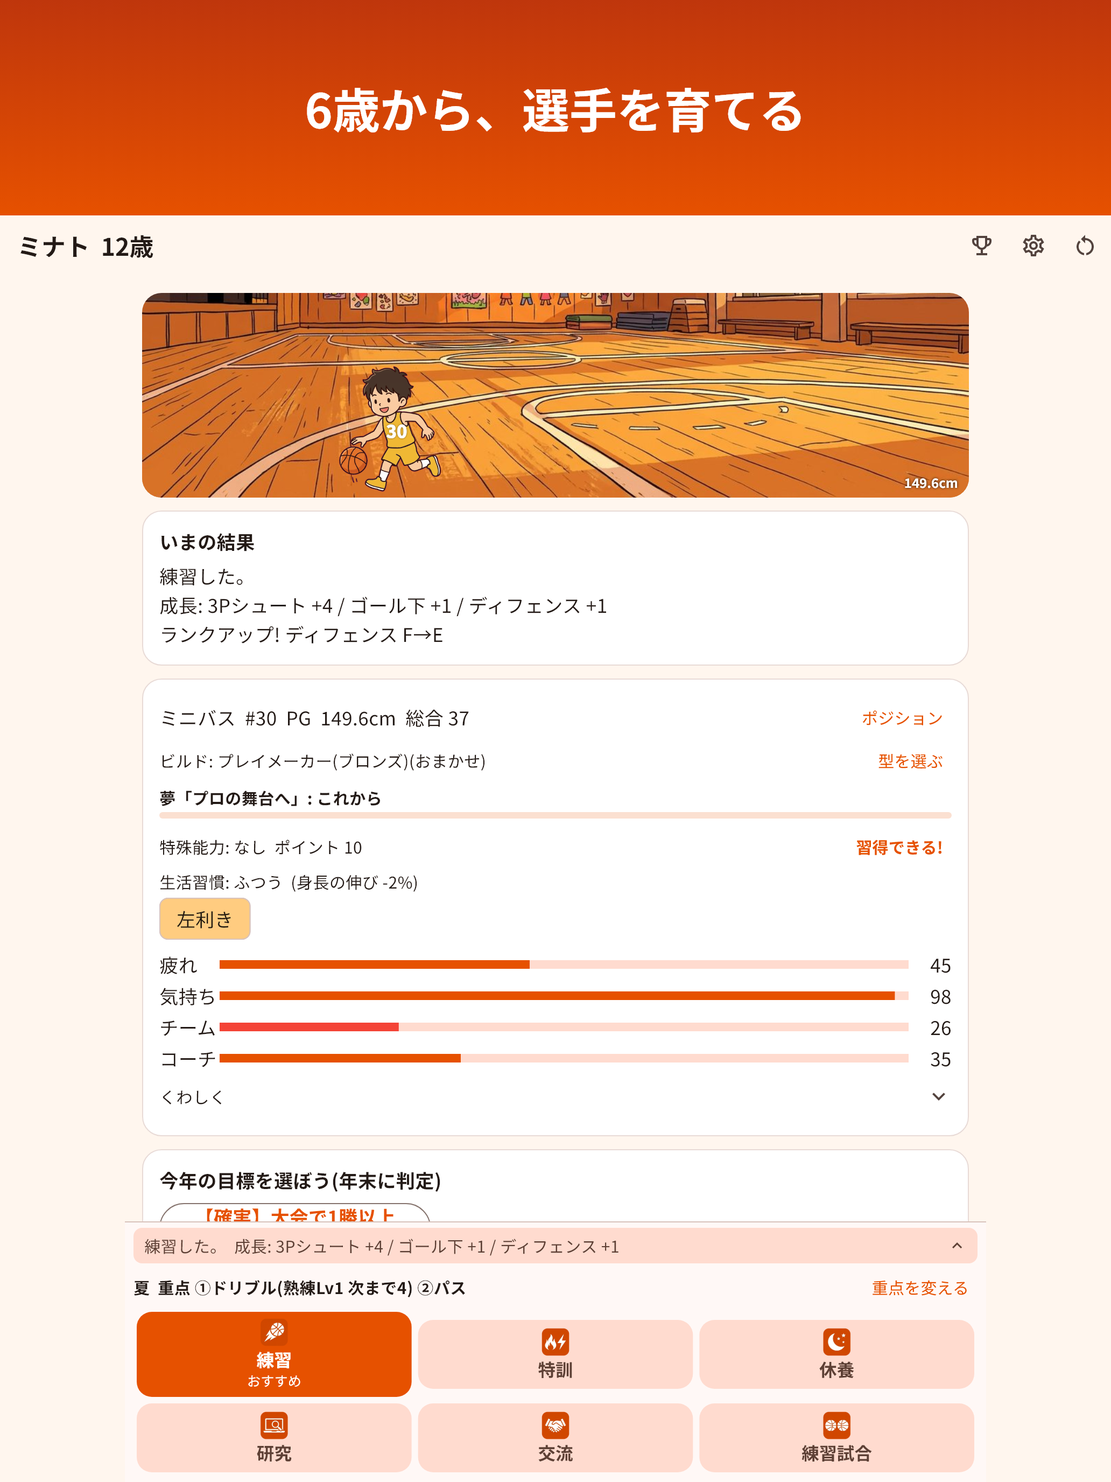
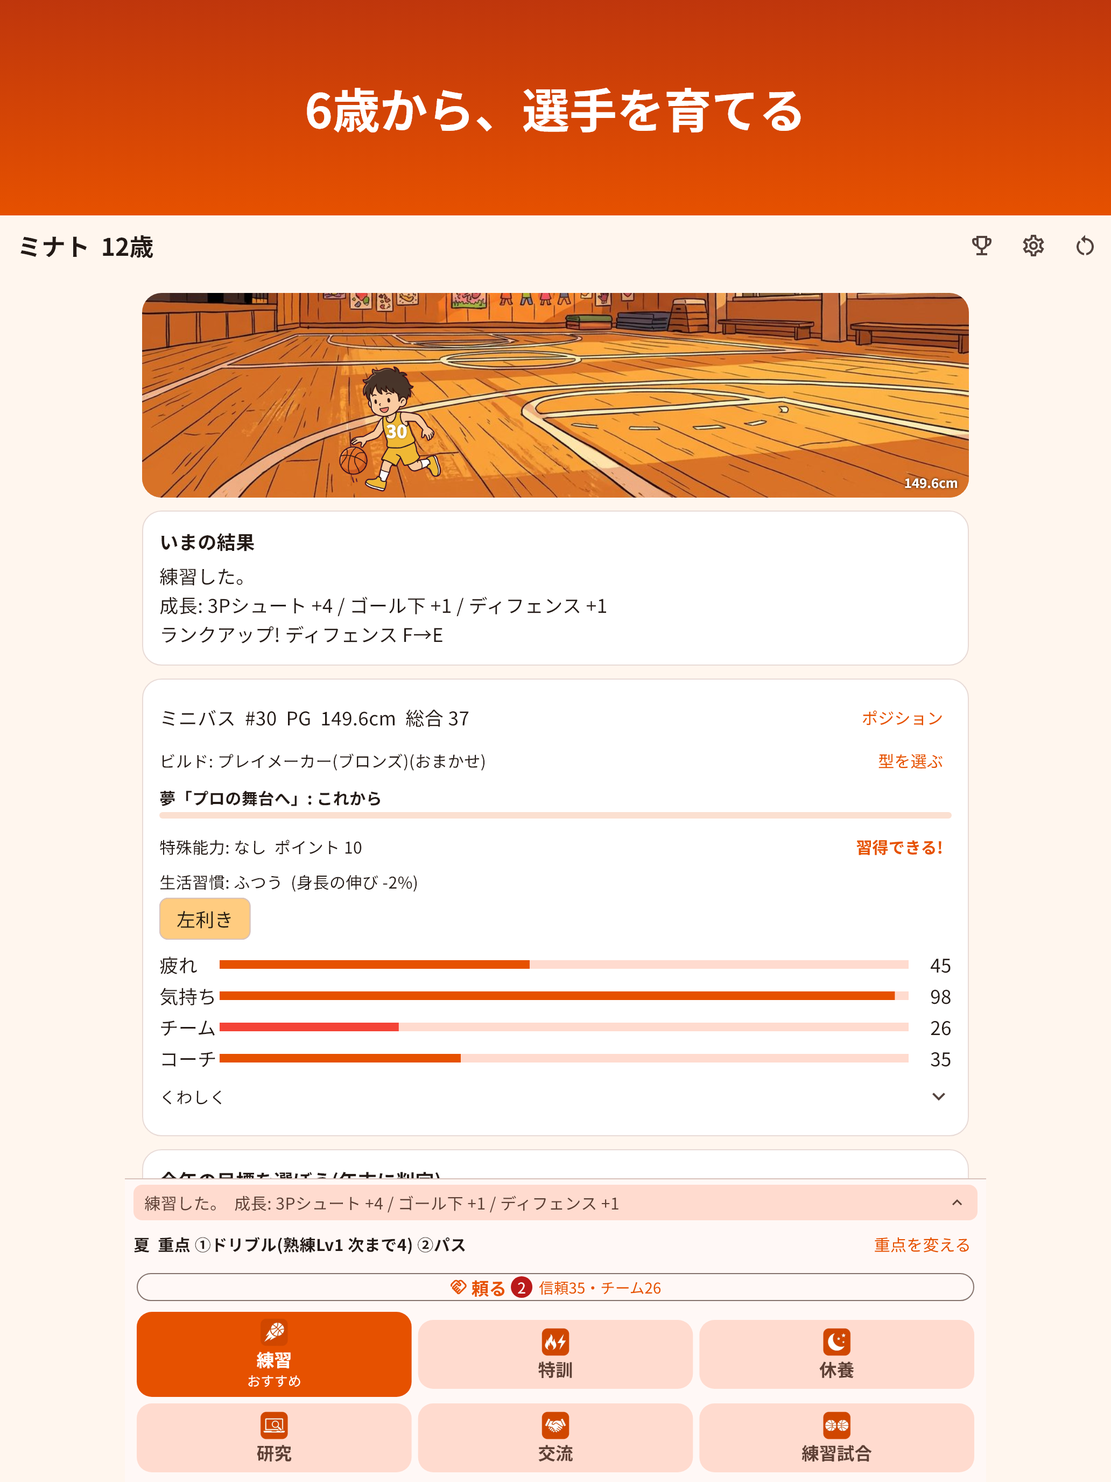
basketball-career: リリース前の点検（使える数の印・遊び方・掲載文と10枚目の画像） (#808)
- 乱数で500人遊ばせる検査に、頼る・お金を混ぜた
- 下のバーの「頼る」「お金」に、今すぐ使える数を出す
- 遊び方に熟練度・頼る・お金を足した
- iPad で身長の表示が2行に割れていたのを直した
- 掲載文から、画面に無い「難しさは3段階」を消し、新しい機能を足した
- 掲載画像に10枚目（お金の使い道）を足した（iPhone・iPad）

Changed region(s): [[0.124, 0.7812, 0.8992, 0.875]]

diff --git a/projects/basketball-career/lib/ui/game_screen.dart b/projects/basketball-career/lib/ui/game_screen.dart
@@ -669,6 +669,7 @@ class _ActionBar extends StatelessWidget {
                         icon: Icons.handshake_outlined,
                         label: '頼る',
                         sub: '信頼${g.coachBond}・チーム${g.teamwork}',
+                        ready: g.favorsReady,
                         onPressed: () => openPerkSheet(context, c, money: false),
                       ),
                     ),
@@ -679,6 +680,7 @@ class _ActionBar extends StatelessWidget {
                           icon: Icons.payments_outlined,
                           label: 'お金',
                           sub: moneyLabel(g.cash),
+                          ready: g.spendsReady,
                           onPressed: () => openPerkSheet(context, c, money: true),
                         ),
                       ),
@@ -715,8 +717,12 @@ class _BarLink extends StatelessWidget {
 
 /// 下のバーの「頼る」「お金」。名前の横に、いまの値を小さく出す。
 class _PerkButton extends StatelessWidget {
-  const _PerkButton({required this.icon, required this.label, required this.sub, required this.onPressed});
+  const _PerkButton(
+      {required this.icon, required this.label, required this.sub, required this.ready, required this.onPressed});
   final IconData icon;
+
+  /// 今すぐ使えるものの数。0 なら印を出さない。
+  final int ready;
   final String label;
   final String sub;
   final VoidCallback onPressed;
@@ -735,6 +741,11 @@ class _PerkButton extends StatelessWidget {
             Icon(icon, size: 16),
             const SizedBox(width: 4),
             Text(label, style: const TextStyle(fontSize: 13, fontWeight: FontWeight.bold)),
+            // 重ねる印(Badge)は iPad・大きい文字で字にかぶったので、横に並べる。
+            if (ready > 0) ...[
+              const SizedBox(width: 4),
+              Badge(label: Text('$ready')),
+            ],
             const SizedBox(width: 6),
             Flexible(
               child: Text(sub,
@@ -776,9 +787,7 @@ class PerkSheet extends StatelessWidget {
             onUse: () => controller.spend(s),
           )
       else
-        for (final f in Favor.values)
-          // 推薦状はプロになると使い道が無いので、出さない。
-          if (!(f == Favor.letter && g.track == Track.pro))
+        for (final f in g.shownFavors)
             (
               title: g.fill(f.label),
               cost: f.cost,
@@ -1076,10 +1085,11 @@ class _AbilityCard extends StatelessWidget {
                     ),
                   ),
                   const SizedBox(width: 8),
+                  // 能力の行と同じ幅にして、棒の右端をそろえる(52だと iPad・大きい文字で「193c/m」と割れた)。
                   SizedBox(
-                    width: 52,
+                    width: 118,
                     child: Text('${p.heightCm.round()}cm',
-                        textAlign: TextAlign.right),
+                        maxLines: 1, softWrap: false, textAlign: TextAlign.right),
                   ),
                 ],
               ),

diff --git a/projects/basketball-career/test/fuzz_test.dart b/projects/basketball-career/test/fuzz_test.dart
@@ -9,6 +9,7 @@ import 'package:basketball_career/game/epilogue.dart';
 import 'package:basketball_career/game/game.dart';
 import 'package:basketball_career/game/life.dart';
 import 'package:basketball_career/game/match.dart';
+import 'package:basketball_career/game/perks.dart';
 import 'package:basketball_career/game/player.dart';
 import 'package:basketball_career/game/special.dart';
 import 'package:flutter_test/flutter_test.dart';
@@ -33,6 +34,11 @@ String? _violation(Game g) {
   if (g.player.positionLock == null) return 'ポジションが決まっていない';
   if (g.player.overall < 0 || g.player.overall > 99) return '総合が範囲外: ${g.player.overall}';
   if (g.salary < 0 || g.sponsor < 0 || g.totalEarnings < 0) return 'お金がマイナス';
+  if (g.cash < 0 || g.spent < 0) return '所持金・使った額がマイナス: ${g.cash} / ${g.spent}';
+  if (g.trainerTerms < 0 || g.trainerTerms > perkTerms || g.nutritionTerms < 0 || g.nutritionTerms > perkTerms) {
+    return '契約の残りターンが範囲外';
+  }
+  if (g.recommendBonus < 0 || g.nextGrowthBoost < 1) return '推薦状・伸びの上乗せが不自然';
   final run = g.run;
   if (run != null && (run.timeouts < 0 || run.zones < 0)) return 'タイムアウト・ゾーンの残りがマイナス';
   return null;
@@ -81,6 +87,36 @@ void main() {
                 g.adoptGoal(r.nextInt(g.goalOptions.length));
               }
               if (g.canRecover && r.nextInt(3) == 0) g.recover();
+              // 気まぐれに、人に頼る・お金を使う(使えないものは理由が出て、使うと例外にならない)。
+              final perkLines = <String>[];
+              if (r.nextInt(3) == 0) {
+                final fv = Favor.values[r.nextInt(Favor.values.length)];
+                final why = g.favorBlock(fv);
+                if (why == null) {
+                  perkLines.addAll(g.useFavor(fv, focus: f));
+                } else {
+                  perkLines.add(why);
+                }
+              }
+              for (var k = 0; k < 2; k++) {
+                final sp = Spend.values[r.nextInt(Spend.values.length)];
+                final why = g.spendBlock(sp);
+                if (why == null) {
+                  perkLines.addAll(g.spend(sp, focus: f));
+                } else {
+                  perkLines.add(why);
+                }
+              }
+              for (final fv in Favor.values) {
+                perkLines.add(g.fill(fv.label));
+              }
+              for (final sp in Spend.values) {
+                perkLines.add(g.fill(sp.label));
+              }
+              for (final t in perkLines) {
+                final bad = _badText(t);
+                if (bad != null) problems.add('seed $seed 頼る・お金: $bad');
+              }
               g.choose(ok[r.nextInt(ok.length)], f,
                   focus2: f2 == f ? null : f2,
                   askClutch: r.nextBool(),

diff --git a/projects/basketball-career/lib/ui/howto_screen.dart b/projects/basketball-career/lib/ui/howto_screen.dart
@@ -17,6 +17,7 @@ class HowToScreen extends StatelessWidget {
     ('ファウルと勢い', '守りが強い選手ほどファウルが増え、前半で3つ以上は「ファウルトラブル」、5つで退場。連勝すると勢いで味方が強くなり、連敗すると弱くなる。'),
     ('夢と目標を立てよう', '始めるときに「夢」を1つ選ぶ。かなうと全能力+1。年のはじめには「確実」と「挑戦」の目標が出て、達成するとごほうび。能力の緑の＋は今年の伸び。'),
     ('チームワークとコーチ', '交流・練習試合でチームワークが上がり、大会の味方が強くなる。練習を重ねるとコーチとの信頼が増え、伸びが良くなる。'),
+    ('熟練度・頼る・お金', '重点にして練習するほど熟練度がたまり、段が上がると能力と特殊能力ポイントが増える。下の「頼る」で信頼やチームワークを使い、プロになれば「お金」で買い物もできる。どちらもターンを使わない。'),
     ('どんな選手を目指す?', '始めるときと育成中に、目指す型(スラッシャー・シャープシューターなど)を選べる。その型の能力が伸びやすく、型に合うプレーが強くなる。おまかせなら能力のつき方で決まる。'),
     ('特性・得意技・特殊能力', '特性は生まれつきや出来事で、得意技は条件を満たすと自然に身につく。特殊能力は年末にたまるポイント(動画でも1日3回まで+1)で、好きなものを選んで習得する。'),
     ('進路は19歳', '能力・実績・身長がプロ契約の評価になる。70点以上なら確実、35点未満は難しい。外れても大学・実業団からもう一度挑戦できる。契約するとドラフトの順位が付く。'),

diff --git a/projects/basketball-career/test/screenshots_test.dart b/projects/basketball-career/test/screenshots_test.dart
@@ -17,18 +17,18 @@ void main() {
   };
 
   for (final e in expected.entries) {
-    test('${e.key}の掲載画像は ${e.value.$1}x${e.value.$2} で、9枚そろっている', () {
+    test('${e.key}の掲載画像は ${e.value.$1}x${e.value.$2} で、10枚そろっている', () {
       final dir = Directory('marketing/screenshots/${e.key}');
       expect(dir.existsSync(), isTrue, reason: '${dir.path} が無い');
       final files = dir.listSync().whereType<File>().where((f) => f.path.endsWith('.png')).toList()
         ..sort((a, b) => a.path.compareTo(b.path));
-      expect(files.length, 9, reason: '9枚(01_season〜09_special)');
+      expect(files.length, 10, reason: '10枚(01_season〜10_perks)');
       for (final f in files) {
         expect(_size(f), e.value, reason: f.path);
         expect(f.lengthSync(), lessThan(8 * 1024 * 1024), reason: '${f.path} が大きすぎる(App Store の上限は8MB)');
       }
       expect(files.first.path, contains('01_season'));
-      expect(files.last.path, contains('09_special'));
+      expect(files.last.path, contains('10_perks'));
     });
   }
 }

diff --git a/projects/basketball-career/tool/screenshots/capture_test.dart b/projects/basketball-career/tool/screenshots/capture_test.dart
@@ -404,6 +404,31 @@ void main() {
       await t.tap(find.text('習得できる!'));
       await t.pump(const Duration(milliseconds: 400));
     });
+
+    // 10. 頼る・お金: プロの稼ぎで買い物をする一覧(ターンを使わない)。
+    final mbase = Game.start('ミナト', rng: Random(3), events: false);
+    final rich = Game(
+      eventsEnabled: false,
+      player: mbase.player.copyWith(
+        clearPositionLock: true,
+        age: 28,
+        heightCm: 193,
+        abilities: {for (final x in Ability.values) x: 74},
+      ),
+      rng: Random(4),
+      track: Track.pro,
+      number: 23,
+      salary: 15000,
+      sponsor: 2400,
+      cash: 7200,
+    );
+    rich.coachBond = 60;
+    rich.teamwork = 70;
+    await _shoot(t, '10_perks', 'お金と、人の縁を使う', _controller(rich), green,
+        act: (t) async {
+      await t.tap(find.text('お金'));
+      await t.pump(const Duration(milliseconds: 600));
+    });
   });
 
   // 課金アイテムの審査用(App Store Connect の「審査に関する情報」)。値段(¥370)が写った設定画面。

diff --git a/projects/basketball-career/test/perks_test.dart b/projects/basketball-career/test/perks_test.dart
@@ -113,6 +113,21 @@ void main() {
     expect(lines.any((l) => l.startsWith('熟練アップ!')), isTrue);
   });
 
+  test('下のバーに出す「使える数」は、一覧で押せるものの数と同じ。推薦状はプロでは数えない', () {
+    final g = _game();
+    g.coachBond = 20;
+    g.teamwork = 40;
+    expect(g.favorsReady, 1, reason: '相談だけ使える');
+    g.useFavor(Favor.talk);
+    expect(g.favorsReady, 0, reason: '1ターンに1つまで');
+    final pro = _game(track: Track.pro, age: 25, cash: 400);
+    pro.coachBond = 90;
+    expect(pro.shownFavors, isNot(contains(Favor.letter)));
+    expect(pro.spendsReady, 3, reason: 'おごる・機材・栄養士(400万)まで');
+    pro.spend(Spend.treat);
+    expect(pro.spendsReady, 1, reason: '残り350万で買えるのは機材だけ');
+  });
+
   test('コートを寄付すると、スポンサー契約の人気が上がる', () {
     int s(bool charity) => sponsorOf(
         overall: 70, honorsLastYear: 0, champion: false, star: false,

diff --git a/projects/basketball-career/lib/game/game.dart b/projects/basketball-career/lib/game/game.dart
@@ -404,6 +404,14 @@ class Game {
   /// このターンに頼みごとをしたか(1ターンに1つまで)。
   bool get favorUsedThisTerm => Favor.values.any((f) => usedTerm.contains(f.name));
 
+  /// 一覧に出す頼みごと(推薦状はプロになると使い道が無いので出さない)。
+  List<Favor> get shownFavors =>
+      [for (final f in Favor.values) if (!(f == Favor.letter && track == Track.pro)) f];
+
+  /// 今すぐ使える頼みごと・お金の使い道の数(下のバーのボタンに出して、使えることに気づけるように)。
+  int get favorsReady => shownFavors.where((f) => favorBlock(f) == null).length;
+  int get spendsReady => Spend.values.where((s) => spendBlock(s) == null).length;
+
   /// 頼みごとを使えない理由。使えるなら null。
   String? favorBlock(Favor f) {
     if (phase != Phase.season) return '今は頼めない';

diff --git a/projects/basketball-career/test/howto_test.dart b/projects/basketball-career/test/howto_test.dart
@@ -25,6 +25,9 @@ void main() {
       '表彰',
       '殿堂',
       '図鑑',
+      '熟練度',
+      '頼る',
+      'お金',
     ];
     for (final w in words) {
       expect(all, contains(w), reason: '遊び方に「$w」が載っていない');

diff --git a/projects/basketball-career/STORE_LISTING.md b/projects/basketball-career/STORE_LISTING.md
@@ -46,11 +46,15 @@
 伸ばす能力を決めて、疲れと気持ちと怪我に気をつけながら、チームワークとコーチとの信頼も育てよう。同じ練習ばかりだとマンネリで伸びが落ちる。まとめて進めたいときは、おすすめで1年、3年と進められる。
 
 【試合の中でも、あなたが決める】
-夏と冬の大会は勝ち抜き。点差が3点以内で終わりそうなら「勝負どころ」。ドライブ、3P、パス、ディフェンス、ファウルをもらう。成功率を見て、最後のプレーを自分で選ぶ。タイムアウトは大会で数回だけ。大事な試合に取っておこう。
+学生の大会は負けたら終わりの勝ち抜き、大学やプロはリーグ戦とプレーオフ。点差が3点以内で終わりそうなら「勝負どころ」。ドライブ、3P、パス、ディフェンス、ファウルをもらう。成功率を見て、最後のプレーを自分で選ぶ。タイムアウトは大会で数回だけ。大事な試合に取っておこう。
 前半が終わったらハーフタイム。相手の持ち味（速攻型・高さ型・外角型・堅守型）に合わせて、ペースを上げるか、守りを固めるか、エースに任せるか。守りが強い選手はファウルトラブルにも注意。連勝すれば、勢いに乗る。
 
+【練習が形に残る。人とお金も使える】
+始めるときに夢をひとつ選ぶ。重点にして練習するほど熟練度がたまり、段が上がると能力と特殊能力ポイントが増える。特殊能力は35種類から自分で選んで習得。
+季節のターンを使わずに、コーチに個別指導や推薦状を頼み、仲間と居残り練習。プロになったら稼いだお金で、トレーナーや栄養士を雇い、海外キャンプへ。両親に家を贈ることもできる。
+
 【ビルドと特性、得意技】
-能力のつき方でビルド（スラッシャー、シャープシューター、プレイメーカー、ロックダウンディフェンダー、リムプロテクター、ストレッチビッグ、オールラウンダー）が決まる。ティアが上がるほど、型に合うプレーが強くなる。
+ビルド（スラッシャー、シャープシューター、プレイメーカー、ロックダウンディフェンダー、リムプロテクター、ストレッチビッグ、オールラウンダー）は、目指す型を自分で選ぶか、おまかせなら能力のつき方で決まる。ティアが上がるほど、型に合うプレーが強くなる。
 特性は20種類、得意技は10種類。長い腕、左利き、バスケIQ、3Pの申し子。条件を満たすと、ステップバックやダンクも身につく。
 
 【ライバル、進路、そしてプロの世界へ】
@@ -58,7 +62,7 @@
 得点王、新人王、オールスター。日本代表として世界大会へ。海を渡る道もある。外れたら大学や実業団からもう一度。引退セレモニーと、その後の進路まで、どんな結末も、ひとつの物語。
 
 【育てた選手は殿堂と図鑑へ】
-引退すると称号がつき、実績が解除される。集めた個人タイトル・ビルド・特性・得意技は図鑑に残る。実績が増えるほど、次の選手は少し強い状態で始められる。結果は短い文章にして共有もできる。難しさは3段階。
+引退すると称号がつき、実績が解除される。集めた個人タイトル・ビルド・特性・得意技は図鑑に残る。実績が増えるほど、次の選手は少し強い状態で始められる。結果は短い文章にして共有もできる。
 
 ・リーグ、チーム、選手、大会の名前はすべて架空です
 ・オフラインで遊べます（広告と購入の確認には通信が必要）
@@ -86,7 +90,7 @@ A rival stands in your way almost every year. Pick your school, win a pro contra
 
 All leagues, teams, players and tournaments are fictional. Contains ads. The in-app purchase Remove Ads turns off full-screen ads and lets you recover without watching videos.
 
-## スクリーンショット（iPhone 1206x2622・iPad 13インチ 2064x2752 の2組、各9枚。最初の3枚が検索結果に出る）
+## スクリーンショット（iPhone 1206x2622・iPad 13インチ 2064x2752 の2組、各10枚。最初の3枚が検索結果に出る）
 
 `tool/screenshots/capture_test.dart` が作る（iPhone は `flutter test tool/screenshots/capture_test.dart`、iPad は `DEVICE=ipad` を付ける）。出力は `marketing/screenshots/iphone/` と `ipad/`。
 
@@ -99,6 +103,7 @@ All leagues, teams, players and tournaments are fictional. Contains ads. The in-
 7. 「称号と殿堂が物語を残す」 … エンディング
 8. 「目指す選手を、自分で選ぶ」 … プレースタイル(ビルド)を選ぶダイアログ
 9. 「特殊能力を選んで習得」 … 特殊能力の習得画面(前提・必要ポイント)
+10. 「お金と、人の縁を使う」 … プロのお金の使い道の一覧(ターンを使わない操作)
 
 **撮るときの決まり**（`docs/app-pitfalls.md` #4・Apple 2.3.2・2.3.7）:
 - 読み込み中の画面を撮らない。撮るたびに `CircularProgressIndicator` が無いこと・文字が一定数あることを検査する。画像（絵・アイコン）の読み込みも待ってから撮る。

diff --git a/projects/basketball-career/CLAUDE.md b/projects/basketball-career/CLAUDE.md
@@ -156,6 +156,10 @@ baseball-manager の骨格（年齢で局面が変わる一代記・季節ごと
     お金(`Spend`): `Game.cash` はプロの季節ごとに (年俸+スポンサー)/4 が入る。おごる50万(チーム+15、毎ターン)/機材300万(信頼+15、年1)/トレーナー600万(4ターン伸び1.1倍)/栄養士400万(4ターン衰え0.8倍・怪我0.7倍)/海外キャンプ1000万(熟練+3、年1)/両親に家5000万・コート寄付1億(一生に1度。寄付はスポンサーの人気+3点＝+900万/年)。エンディングに家・コート・合同練習の一文。
     **広告の回復と同じ効き目(疲れを抜く等)の買い物は置かない**(広告の価値を下げないため)。
     **バランス**(n=3000): 使わなければ数字は変わらない。全部使う遊び方(`balance.dart --perks`、`--perks=lesson,camp` で絞れる)で 素朴39→42.6%・おすすめ70→71%。最初の形は素朴52%(合同練習の「能力+1/年」が主因→外した)。熟練の極みは全部使うと4〜7割の人生で届く(使わなければ3%のまま)。
+  - **リリース前の点検(2026-11-04、ユーザー指示「リリース前の品質向上と機能向上に努めて」)**: でたらめ遊びの網(`fuzz_test`)に頼る・お金を混ぜた(所持金・契約の残り・推薦状の値の範囲と文の穴あき)。
+    下のバーの「頼る」「お金」に**今すぐ使える数**の印(`Game.favorsReady`／`spendsReady`、一覧は `shownFavors`)。印をアイコンに重ねる `Badge` は iPad で字にかぶったので文字の横に並べた。
+    遊び方に「熟練度・頼る・お金」を足した(`howto_test` が語を検査)。iPad の能力カードで身長が「193c/m」と割れていた(幅52)→能力の行と同じ118。
+    **掲載文に、画面から外した「難しさは3段階」が残っていた**(審査で中身と違うと言われる種)→消し、夢・熟練度・特殊能力・頼る・お金を足した。掲載画像に10枚目「お金と、人の縁を使う」(`10_perks`、上限の10枚)。
   - **押した結果をボタンのすぐ上に(2026-10-26、改善の繰り返し)**: 下のボタンを押しても、結果のカードは一覧の中ほどにあって見えなかった。→ 下のバーの上に結果の帯(`resultStripText`: 「練習した。 成長: …」の2行まで)を出し、押すと「いまの結果」のカードへ戻る。結果のカード・大会のカード・知らせは、一覧の**絵のすぐ下(いちばん上)**へ移した。
     **落とし穴**: `ListView` は画面外を作らないので、カードが一覧の下の方にあると、上へ戻しても `GlobalKey` の context が無く `ensureVisible` できなかった(テストで発見)→ カードを上へ移し、送ったあと `endOfFrame` を待つ。掲載画像の1枚目は「春に1回練習した後」にして帯を写す。
   - **リーグの個人ランキング(2026-10-26)**: 大学・実業団・プロ(4試合以上)の大会カードに「リーグの個人ランキング: 得点5位・リバウンド12位・アシスト3位」(`TournamentResult.statRanks`)。他の選手は作らない目安: 個人タイトルの基準に届けば1位(得点王などと必ずそろう)、届かなければ基準に足りない割合1%ごとに1つ下(2〜40位)。
